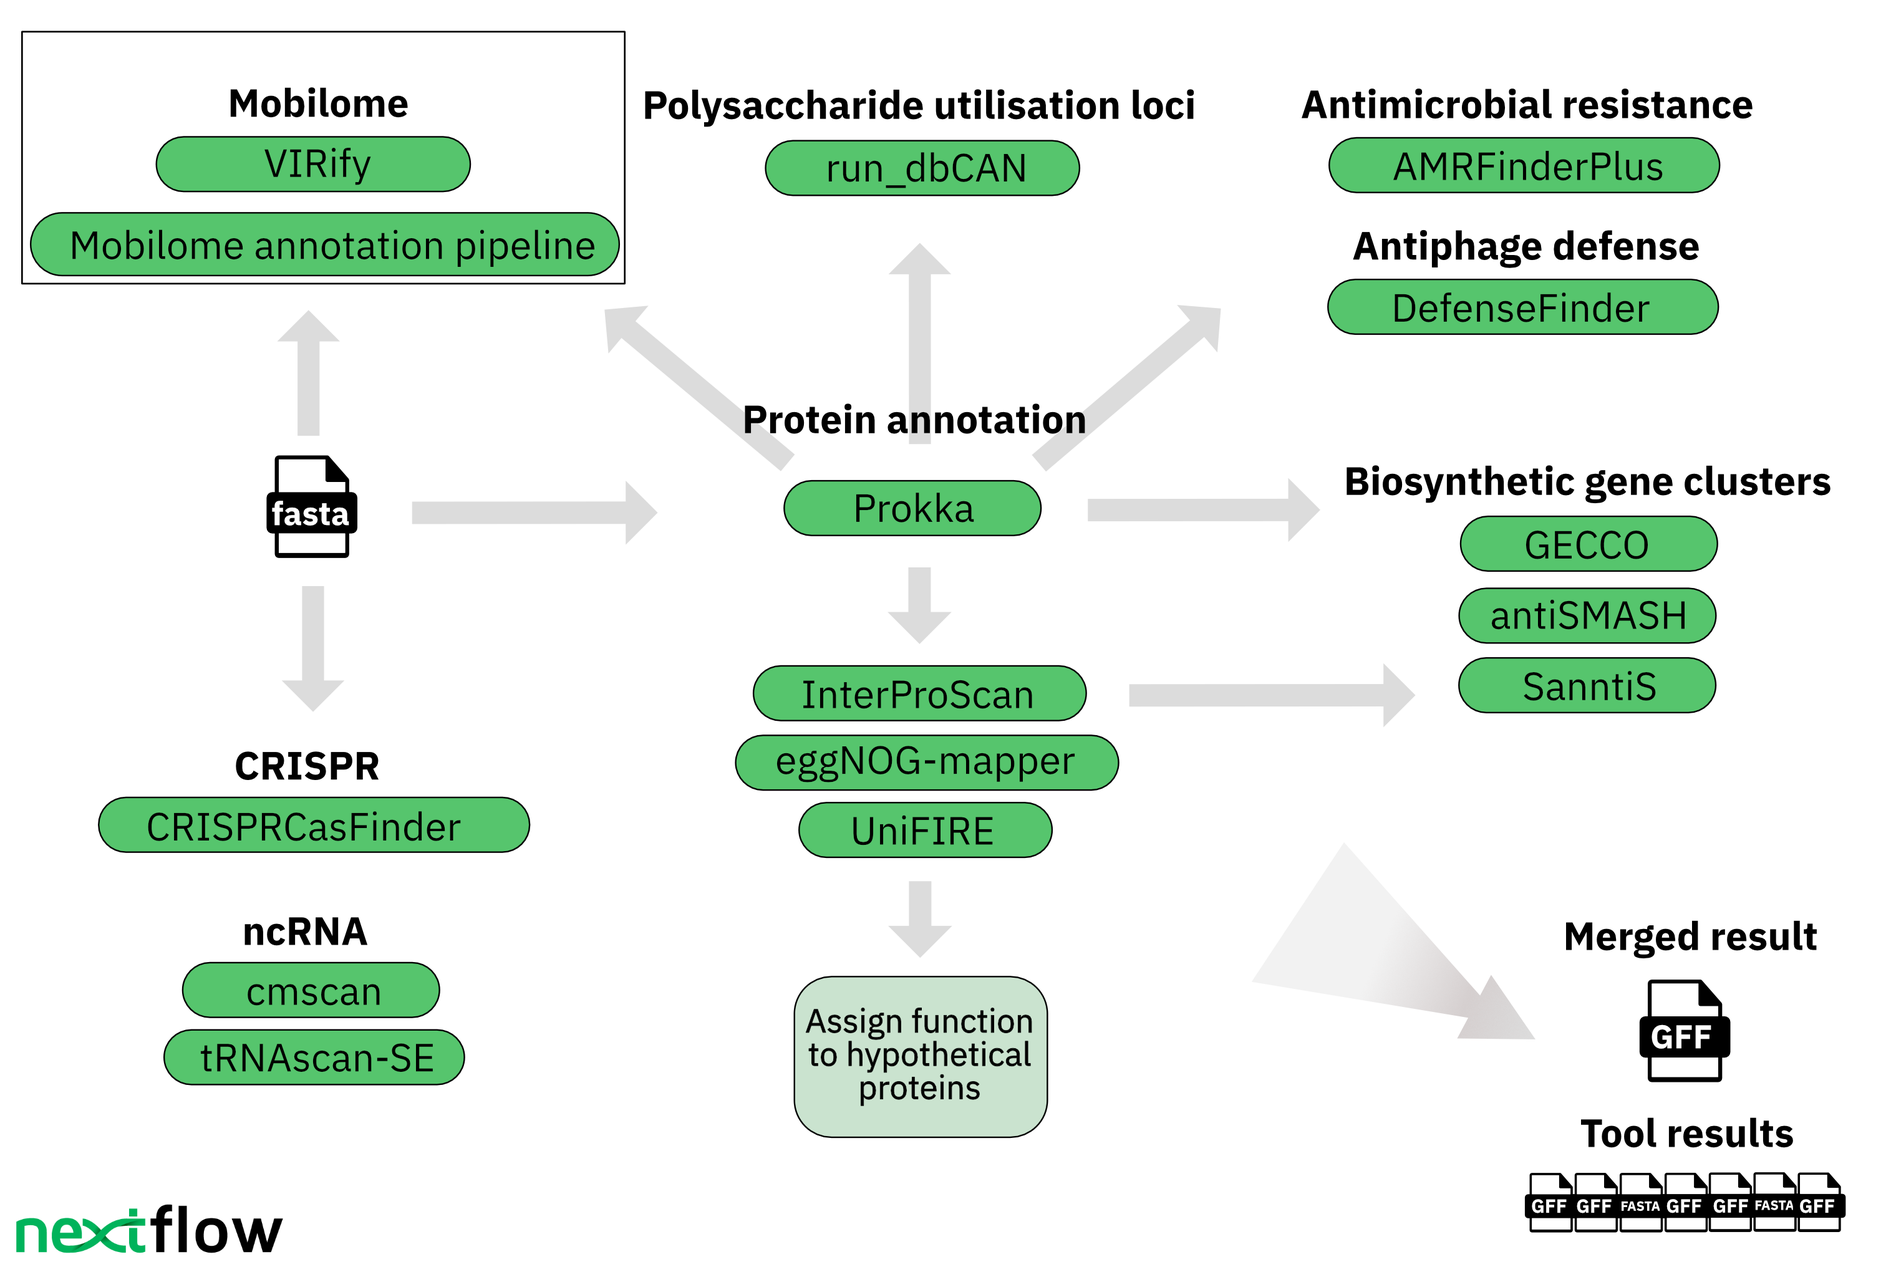
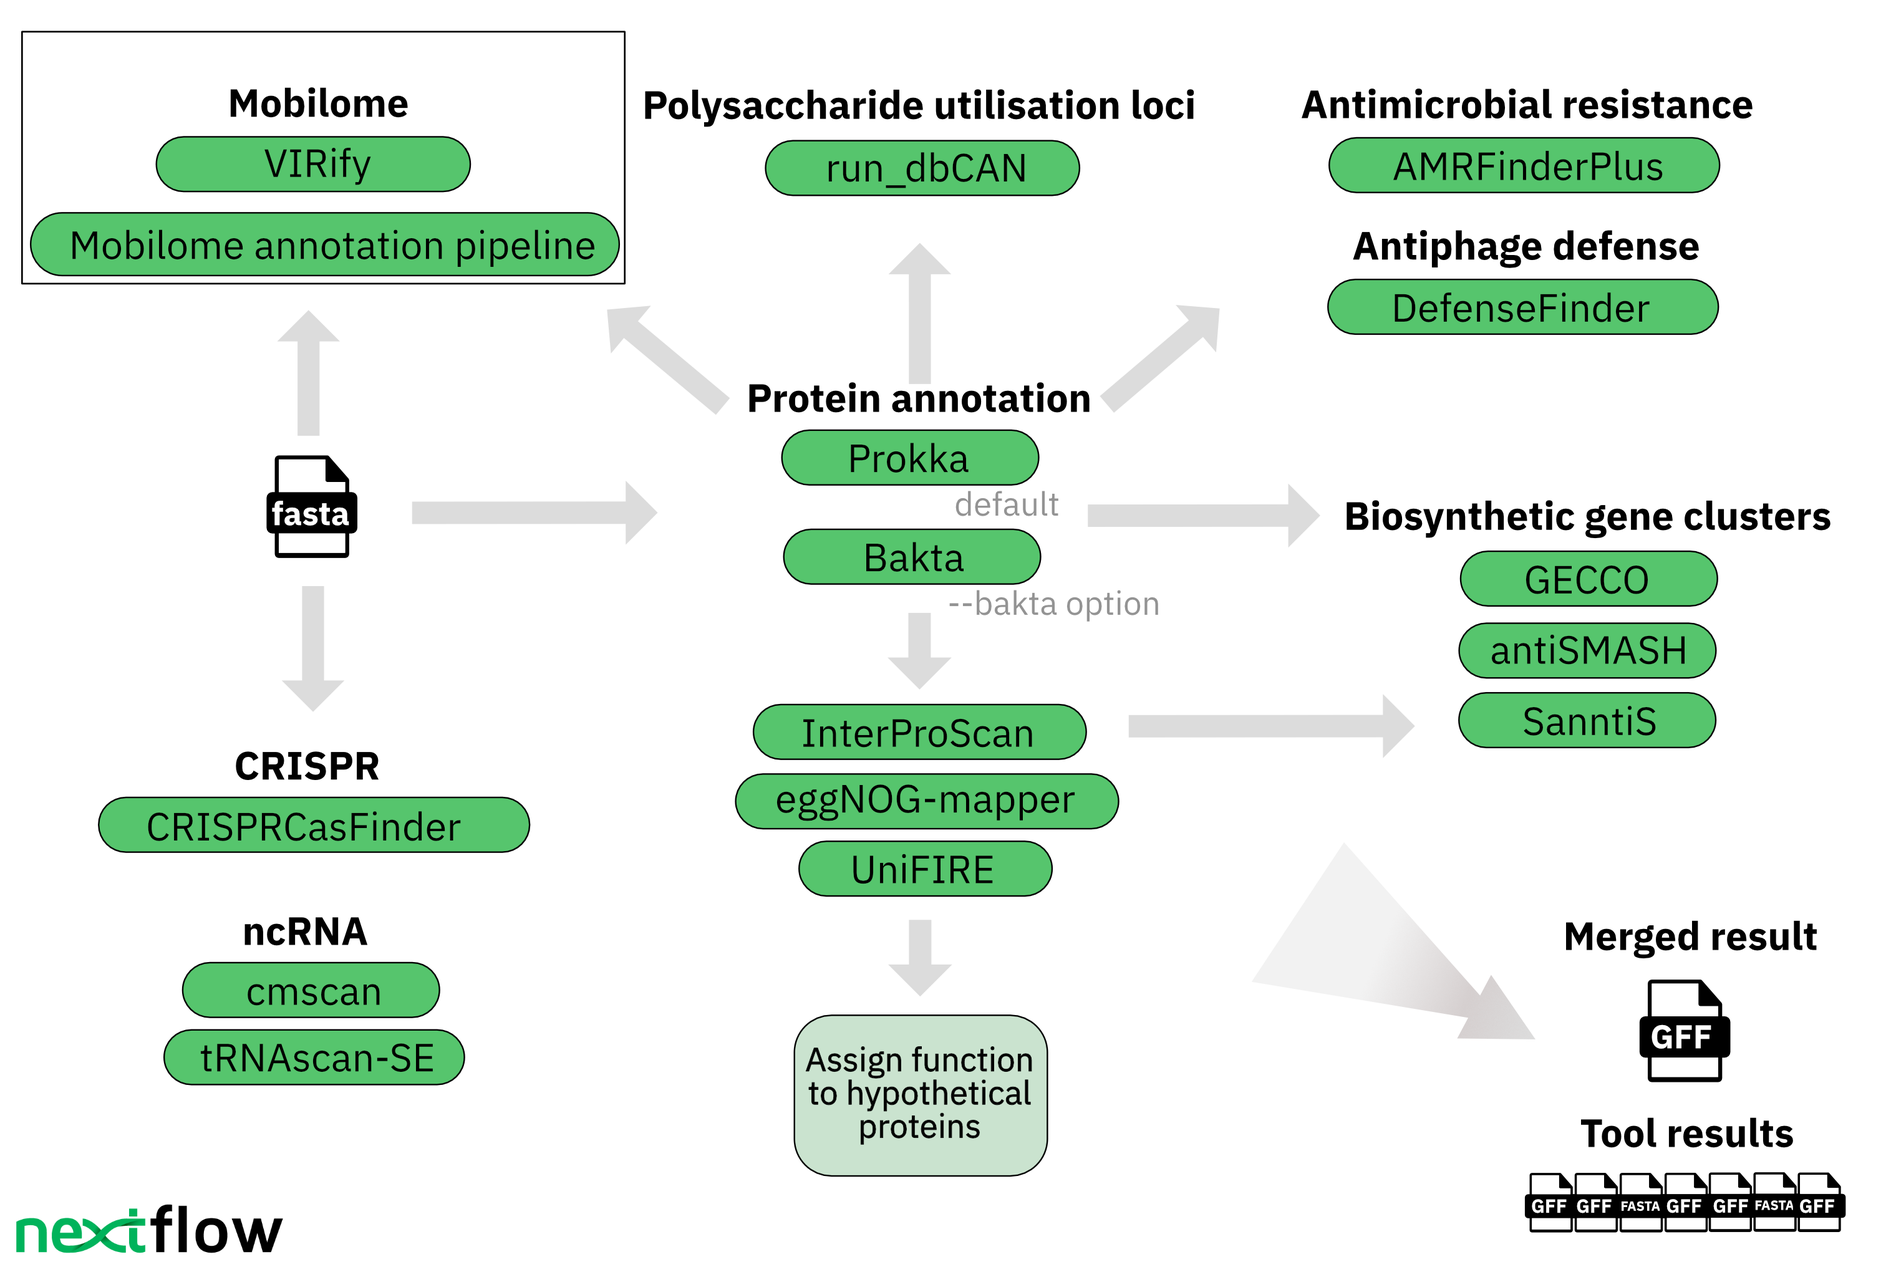
Added bakta to docs

Changed region(s): [[0.373, 0.3113, 0.9636, 0.9338], [0.5906, 0.3735, 0.6839, 0.4358]]

diff --git a/README.md b/README.md
@@ -34,28 +34,30 @@
 
 The workflow uses the following tools and databases:
 
-| Tool/Database                                                                                    | Version           | Purpose                                                                                                                |
-| ------------------------------------------------------------------------------------------------ |-------------------| ---------------------------------------------------------------------------------------------------------------------- |
-| [Prokka](https://github.com/tseemann/prokka)                                                     | 1.14.6            | CDS calling and functional annotation                                                                                  |
-| [InterProScan](https://www.ebi.ac.uk/interpro/about/interproscan/)                               | 5.62-94.0         | Protein annotation (InterPro, Pfam)                                                                                    |
-| [eggNOG-mapper](https://github.com/eggnogdb/eggnog-mapper)                                       | 2.1.11            | Protein annotation (eggNOG, KEGG, COG, GO-terms)                                                                       |
-| [eggNOG DB](http://eggnog6.embl.de/download/)                                                    | 5.0.2             | Database for eggNOG-mapper                                                                                             |
-| [UniFIRE](https://gitlab.ebi.ac.uk/uniprot-public/unifire)                                       | 2023.4            | Protein annotation                                                                                                     |
-| [AMRFinderPlus](https://github.com/ncbi/amr)                                                     | 3.11.4            | Antimicrobial resistance gene annotation; virulence factors, biocide, heat, acid, and metal resistance gene annotation |
-| [AMRFinderPlus DB](https://ftp.ncbi.nlm.nih.gov/pathogen/Antimicrobial_resistance/)              | 3.11 2024-01-31.1 | Database for AMRFinderPlus                                                                                             |
-| [DefenseFinder](https://github.com/mdmparis/defense-finder)                                      | 1.2.0             | Annotation of anti-phage systems                                                                                       |
-| [DefenseFinder models](https://github.com/mdmparis/defense-finder-models)                        | 1.2.3             | Database for DefenseFinder                                                                                             |
-| [GECCO](https://github.com/zellerlab/GECCO)                                                      | 0.9.8             | Biosynthetic gene cluster annotation                                                                                   |
-| [antiSMASH](https://antismash.secondarymetabolites.org/#!/download)                              | 7.1.0             | Biosynthetic gene cluster annotation                                                                                   |
-| [SanntiS](https://github.com/Finn-Lab/SanntiS)                                                   | 0.9.3.4           | Biosynthetic gene cluster annotation                                                                                   |
-| [run_dbCAN](https://github.com/linnabrown/run_dbcan)                                             | 4.1.2             | PUL prediction                                                                                                         |
-| [dbCAN DB](https://bcb.unl.edu/dbCAN2/download/Databases/)                                       | V12               | Database for run_dbCAN                                                                                                 |
-| [CRISPRCasFinder](https://github.com/dcouvin/CRISPRCasFinder)                                    | 4.3.2             | Annotation of CRISPR arrays                                                                                            |
-| [cmscan](http://eddylab.org/infernal/)                                                           | 1.1.5             | ncRNA predictions                                                                                                      |
-| [Rfam](https://rfam.org/)                                                                        | 14.9              | Identification of SSU/LSU rRNA and other ncRNAs                                                                        |
-| [tRNAscan-SE](https://github.com/UCSC-LoweLab/tRNAscan-SE)                                       | 2.0.9             | tRNA predictions                                                                                                       |
-| [VIRify](https://github.com/EBI-Metagenomics/emg-viral-pipeline)                                 | 2.0.0             | Viral sequence annotation (runs separately)                                                                            |
-| [Mobilome annotation pipeline](https://github.com/EBI-Metagenomics/mobilome-annotation-pipeline) | 2.0               | Mobilome annotation (runs separately)                                                                                  |
+| Tool/Database                                                                                 | Version                                       | Purpose                                                                                                                |
+|-----------------------------------------------------------------------------------------------|-----------------------------------------------|------------------------------------------------------------------------------------------------------------------------|
+| [Prokka](https://github.com/tseemann/prokka)                                                  | 1.14.6                                        | CDS calling and functional annotation (default)                                                                        |
+| [Bakta](https://github.com/oschwengers/bakta)                     | 1.9.3                                         | CDS calling and functional annotation (if --bakta flag is used)                                                        |
+| [Bakta db](https://zenodo.org/record/10522951/)                    | 2024-01-19 with AMRFinderPlus DB 2024-01-31.1 | Bakta DB (when Bakta is used as the gene caller)                                                                       |
+| [InterProScan](https://www.ebi.ac.uk/interpro/about/interproscan/)                            | 5.62-94.0                                     | Protein annotation (InterPro, Pfam)                                                                                    |
+| [eggNOG-mapper](https://github.com/eggnogdb/eggnog-mapper)                                    | 2.1.11                                        | Protein annotation (eggNOG, KEGG, COG, GO-terms)                                                                       |
+| [eggNOG DB](http://eggnog6.embl.de/download/)                                                 | 5.0.2                                         | Database for eggNOG-mapper                                                                                             |
+| [UniFIRE](https://gitlab.ebi.ac.uk/uniprot-public/unifire)                                    | 2023.4                                        | Protein annotation                                                                                                     |
+| [AMRFinderPlus](https://github.com/ncbi/amr)                                                  | 3.12.8                                        | Antimicrobial resistance gene annotation; virulence factors, biocide, heat, acid, and metal resistance gene annotation |
+| [AMRFinderPlus DB](https://ftp.ncbi.nlm.nih.gov/pathogen/Antimicrobial_resistance/)           | 3.12 2024-01-31.1                             | Database for AMRFinderPlus                                                                                             |
+| [DefenseFinder](https://github.com/mdmparis/defense-finder)                                   | 1.2.0                                         | Annotation of anti-phage systems                                                                                       |
+| [DefenseFinder models](https://github.com/mdmparis/defense-finder-models)                     | 1.2.3                                         | Database for DefenseFinder                                                                                             |
+| [GECCO](https://github.com/zellerlab/GECCO)                                                   | 0.9.8                                         | Biosynthetic gene cluster annotation                                                                                   |
+| [antiSMASH](https://antismash.secondarymetabolites.org/#!/download)                           | 7.1.0                                         | Biosynthetic gene cluster annotation                                                                                   |
+| [SanntiS](https://github.com/Finn-Lab/SanntiS)                                                | 0.9.3.4                                       | Biosynthetic gene cluster annotation                                                                                   |
+| [run_dbCAN](https://github.com/linnabrown/run_dbcan)                                          | 4.1.2                                         | PUL prediction                                                                                                         |
+| [dbCAN DB](https://bcb.unl.edu/dbCAN2/download/Databases/)                                    | V12                                           | Database for run_dbCAN                                                                                                 |
+| [CRISPRCasFinder](https://github.com/dcouvin/CRISPRCasFinder)                                 | 4.3.2                                         | Annotation of CRISPR arrays                                                                                            |
+| [cmscan](http://eddylab.org/infernal/)                                                        | 1.1.5                                         | ncRNA predictions                                                                                                      |
+| [Rfam](https://rfam.org/)                                                                     | 14.9                                          | Identification of SSU/LSU rRNA and other ncRNAs                                                                        |
+| [tRNAscan-SE](https://github.com/UCSC-LoweLab/tRNAscan-SE)                                    | 2.0.9                                         | tRNA predictions                                                                                                       |
+| [VIRify](https://github.com/EBI-Metagenomics/emg-viral-pipeline)                              | 2.0.0                                         | Viral sequence annotation (runs separately)                                                                            |
+| [Mobilome annotation pipeline](https://github.com/EBI-Metagenomics/mobilome-annotation-pipeline) | 2.0                                           | Mobilome annotation (runs separately)                                                                                  |
 
 <a name="install"></a>
 
@@ -76,7 +78,7 @@ Although it's possible to run the pipeline on a personal computer, due to the co
 The pipeline needs reference databases in order to work, they take roughly 110G.
 
 | Path                | Size |
-| ------------------- | ---- |
+|---------------------|------|
 | amrfinder           | 217M |
 | antismash           | 9.4G |
 | dbcan               | 7.5G |
@@ -84,8 +86,9 @@ The pipeline needs reference databases in order to work, they take roughly 110G.
 | eggnog              | 48G  |
 | interproscan        | 45G  |
 | interpro_entry_list | 2.6M |
+| bakta               | 71G  |
 | rfam_models         | 637M |
-| total               | 110G |
+| total               | 180G |
 
 `mettannotator` has an automated mechanism to download the databases using the `--dbs <db_path>` flag. When this flag is provided, the pipeline inspects the folder to verify if the required databases are already present. If any of the databases are missing, the pipeline will automatically download them.
 
@@ -173,6 +176,9 @@ Reference databases
 Generic options
   --multiqc_methods_description      [string]  Custom MultiQC yaml file containing HTML including a methods description.
 
+Other parameters
+  --bakta                            [boolean] Use Bakta instead of Prokka for CDS annotation. Prokka will still be used for archaeal genomes.
+
  !! Hiding 17 params, use --validationShowHiddenParams to show them !!
 ------------------------------------------------------
 If you use ebi-metagenomics/mettannotator for your analysis please cite:
@@ -200,6 +206,12 @@ nextflow run ebi-metagenomics/mettannotator \
 > Please provide pipeline parameters via the CLI or Nextflow `-params-file` option. Custom config files including those
 > provided by the `-c` Nextflow option can be used to provide any configuration _**except for parameters**_;
 > see [docs](https://nf-co.re/usage/configuration#custom-configuration-files).
+
+### Gene caller choice
+By default, `mettannotator` uses Prokka to identify protein-coding genes. Users can choose to use Bakta instead by
+running `mettannotator` with the `--bakta` flag. `mettannotator` runs Bakta without ncRNA and CRISPR
+annotation as these are produced by separate tools in the pipeline. Archaeal genomes will continue to be annotated using
+Prokka as Bakta is only intended for annotation of bacterial genomes.
 
 <a name="test"></a>
 
@@ -282,13 +294,13 @@ Both files include the genome sequence in the FASTA format at the bottom of the 
 Below is an explanation of how each field in column 3 and 9 of the final GFF file is populated. In most cases, information is taken as is from the reporting tool's output.
 
 | Feature (column 3)    | Attribute Name (column 9)                                               | Reporting Tool  | Description                                                                                                                                                                                                 |
-| --------------------- | ----------------------------------------------------------------------- | --------------- | ----------------------------------------------------------------------------------------------------------------------------------------------------------------------------------------------------------- |
+| --------------------- | ----------------------------------------------------------------------- |-----------------| ----------------------------------------------------------------------------------------------------------------------------------------------------------------------------------------------------------- |
 | ncRNA                 | all\*                                                                   | cmscan + Rfam   | ncRNA annotation (excluding tRNA)                                                                                                                                                                           |
 | tRNA                  | all\*                                                                   | tRNAscan-SE     | tRNA annotation                                                                                                                                                                                             |
 | LeftFLANK, RightFLANK | all\*                                                                   | CRISPRCasFinder | CRISPR array flanking sequence                                                                                                                                                                              |
 | CRISPRdr              | all\*                                                                   | CRISPRCasFinder | Direct repeat region of a CRISPR array                                                                                                                                                                      |
 | CRISPRspacer          | all\*                                                                   | CRISPRCasFinder | CRISPR spacer                                                                                                                                                                                               |
-| CDS                   | `ID`, `eC_number`, `Name`, `Dbxref`, `gene`, `inference`, `locus_tag`   | Prokka          | Protein annotation                                                                                                                                                                                          |
+| CDS                   | `ID`, `eC_number`, `Name`, `Dbxref`, `gene`, `inference`, `locus_tag`   | Prokka/Bakta    | Protein annotation                                                                                                                                                                                          |
 | CDS                   | `product`                                                               | mettannotator   | Product assigned as described in [ Determining the product ](#product)                                                                                                                                      |
 | CDS                   | `product_source`                                                        | mettannotator   | Tool that reported the product chosen by mettannotator                                                                                                                                                      |
 | CDS                   | `eggNOG`                                                                | eggNOG-mapper   | Seed ortholog from eggNOG                                                                                                                                                                                   |

diff --git a/CITATIONS.md b/CITATIONS.md
@@ -22,6 +22,10 @@
 
   > Seemann T. Prokka: rapid prokaryotic genome annotation. Bioinformatics. 2014 Jul 15;30(14):2068-9. doi: 10.1093/bioinformatics/btu153. Epub 2014 Mar 18. PMID: 24642063.
 
+- [Bakta](https://pubmed.ncbi.nlm.nih.gov/34739369/)
+
+  > Schwengers O, Jelonek L, Dieckmann MA, Beyvers S, Blom J, Goesmann A. Bakta: rapid and standardized annotation of bacterial genomes via alignment-free sequence identification. Microb Genom. 2021 Nov;7(11):000685. doi: 10.1099/mgen.0.000685. PMID: 34739369; PMCID: PMC8743544.
+
 - [InterProScan](https://pubmed.ncbi.nlm.nih.gov/24451626/)
 
   > Jones P, Binns D, Chang HY, Fraser M, Li W, McAnulla C, McWilliam H, Maslen J, Mitchell A, Nuka G, Pesseat S, Quinn AF, Sangrador-Vegas A, Scheremetjew M, Yong SY, Lopez R, Hunter S. InterProScan 5: genome-scale protein function classification. Bioinformatics. 2014 May 1;30(9):1236-40. doi: 10.1093/bioinformatics/btu031. Epub 2014 Jan 21. PMID: 24451626; PMCID: PMC3998142.
